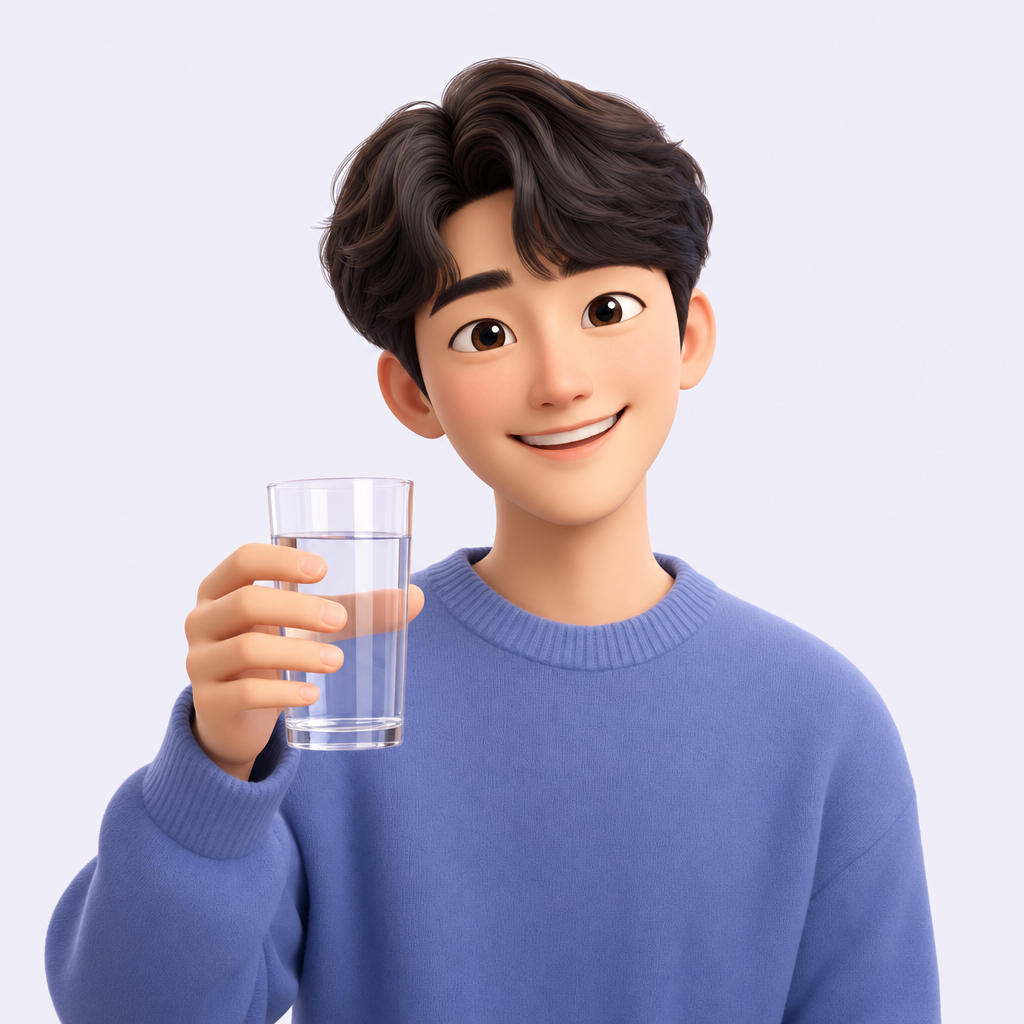
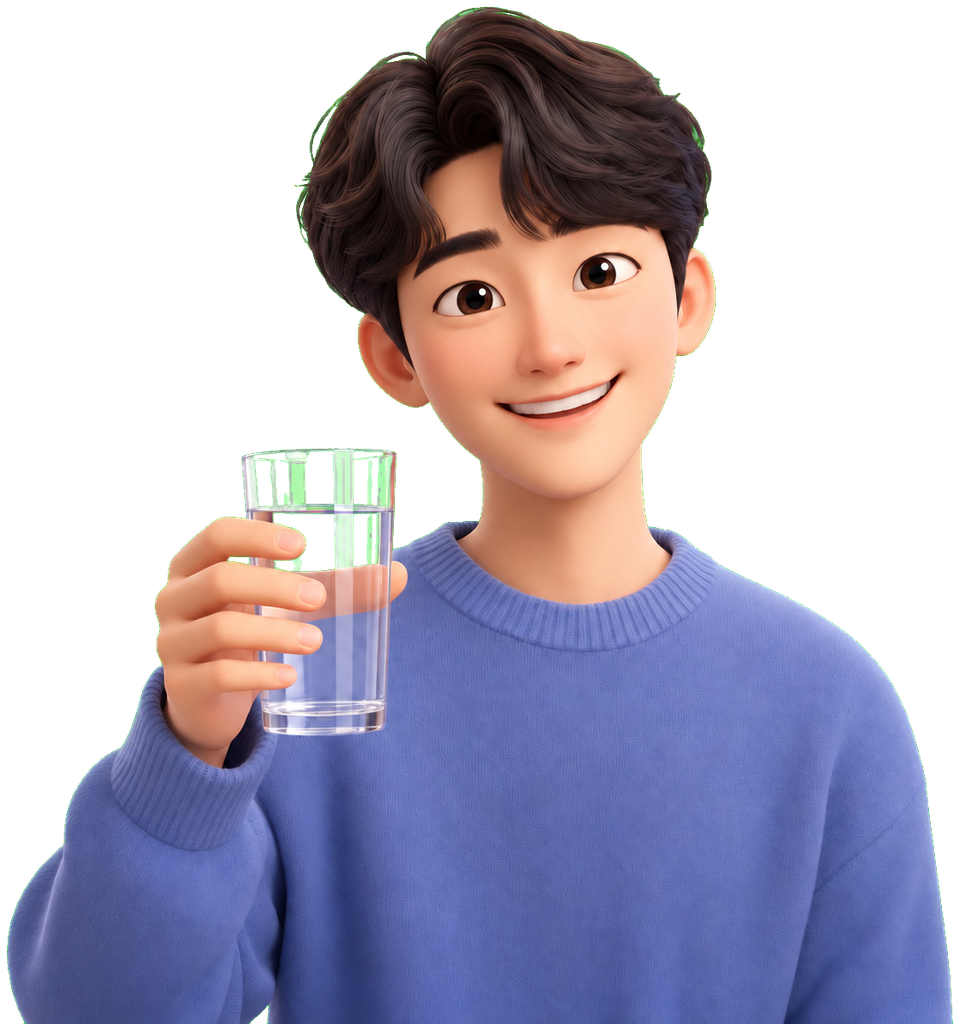
캐릭터 10장을 배경 투명 RGBA 로 교체 — Codex 초록 배경 재생성 + 크로마키
- assets/images/character/*.png: Codex 이미지 도구로 원본을 참고해 순수 초록 배경에 다시 그린 뒤
  scripts/key-green-characters.py 로 키잉(순수 초록은 어디든 배경, 가장자리 소프트 알파와 초록
  기여분 되돌리기, 유리컵 비침 despill). 거품·하트·반짝이 장식 유지, 소주병 초록 보호.
- 앱 배경색이 구워진 RGB 라 흰 카드(공유 카드·설정 프로필 카드)에서 상자가 보이던 문제 해소.
  Live Activity 320px 에셋도 같은 소스에서 재생성.
- ML 배경 제거(Replicate) 경로는 떠 있는 장식을 지워서 폐기 — 스크립트 2개 삭제, CLAUDE.md 갱신.

Changed region(s): [[0.0, 0.0, 1.0, 1.0], [0.625, 0.9688, 0.6562, 1.0], [0.4375, 0.5938, 0.4688, 0.625]]

diff --git a/scripts/key-green-characters.py b/scripts/key-green-characters.py
@@ -1,0 +1,120 @@
+#!/usr/bin/env python3
+"""순수 초록(#00FF00) 배경으로 그린 캐릭터를 크로마키로 투명(RGBA) 처리한다 (Pillow 만 사용).
+
+ML 배경 제거(851-labs/background-remover)는 캐릭터 주변에 떠 있는 물방울·하트를
+배경으로 보고 지운다. Codex 이미지 도구가 배경을 완전 단색 초록으로 그려 주므로
+초록만 골라 빼면 장식이 그대로 남는다.
+
+    python3 scripts/key-green-characters.py in.png out.png [--height 1024] [in2 out2 ...]
+
+알고리즘 (초록 과잉 e = G − max(R, B), 0~255):
+  1. e ≥ HARD 인 픽셀은 어디에 있든 배경(갇힌 영역·거품 안쪽 포함). 소주병 초록은 e≈60 이라 안전.
+  2. 배경을 ALPHA_BAND 만큼 불린 띠 안에서만 알파를 부드럽게: a = 1 − clamp((e − LO)/(HI − LO)).
+     SPILL_BAND 안의 불투명 픽셀은 초록 물듦(G 과잉)을 깎는다. 안쪽이라도 밝고 연한 초록
+     (유리컵에 배경이 비친 것)은 중화한다 — R·B ≥ PALE_SPILL_MIN 조건으로 소주병은 보호.
+  3. 반투명 픽셀은 초록 기여분을 되돌린다: R' = R/a, B' = B/a, G' = (G − (1−a)·255)/a.
+     이러면 흰 스웨터 가장자리도 회색이 아니라 흰색으로 남는다.
+  4. 여백 크롭(+PADDING) → 지정 높이로 LANCZOS 축소 → PNG.
+"""
+import argparse
+from pathlib import Path
+
+from PIL import Image, ImageFilter
+
+HARD = 150        # 이 이상이면 배경(유리컵에 비친 진한 초록도 포함 — 소주병 e≈60~100 은 안전)
+LO, HI = 80, 240  # 소프트 알파 구간 (소주병 초록 e≈60 은 LO 아래라 불투명 유지)
+ALPHA_BAND = 10   # 배경 주변 이 폭(px) 안에서만 알파를 부드럽게 (렌더의 안티에일리어싱 폭보다 넓게)
+SPILL_BAND = 4    # 이 폭 안의 불투명 픽셀은 초록 물듦을 깎는다 (넓히면 소주병 테두리가 탁해진다)
+SPILL_TOL = 16    # 허용할 초록 과잉
+PALE_SPILL_MIN = 60   # 안쪽 초록 물듦 중화 조건: min(R,B) ≥ 이 값 AND G ≥ PALE_SPILL_G (소주병 G≈120~180 은 제외)
+PALE_SPILL_G = 190
+PADDING = 8
+
+
+def key(im: Image.Image) -> Image.Image:
+    im = im.convert("RGB")
+    w, h = im.size
+    px = im.load()
+
+    # 1. 순수 초록(e ≥ HARD) 은 어디에 있든 배경 — 팔과 머리 사이 같은 갇힌 영역, 거품 안쪽도 포함.
+    #    (테두리 연결 조건을 두면 갇힌 초록이 남는다. 소주병 초록은 e≈60 이라 걸리지 않는다.)
+    hard = Image.new("L", (w, h), 0)
+    hp = hard.load()
+    excess = [[0] * w for _ in range(h)]
+    for y in range(h):
+        row = excess[y]
+        for x in range(w):
+            r, g, b = px[x, y]
+            e = g - max(r, b)
+            row[x] = e
+            if e >= HARD:
+                hp[x, y] = 255
+
+    # 2. 배경 주변 띠: 넓은 띠(ALPHA_BAND)는 알파를 부드럽게, 좁은 띠(SPILL_BAND)는 초록 번짐을 깎는다
+    alpha_band = hard.filter(ImageFilter.MaxFilter(ALPHA_BAND * 2 + 1)).load()
+    spill_band = hard.filter(ImageFilter.MaxFilter(SPILL_BAND * 2 + 1)).load()
+
+    out = Image.new("RGBA", (w, h))
+    op = out.load()
+    for y in range(h):
+        for x in range(w):
+            r, g, b = px[x, y]
+            if hp[x, y]:
+                op[x, y] = (0, 0, 0, 0)
+                continue
+            if alpha_band[x, y] == 0:
+                e = excess[y][x]
+                if e > SPILL_TOL and min(r, b) >= PALE_SPILL_MIN and g >= PALE_SPILL_G:
+                    # 유리컵처럼 투명한 사물에 초록 배경이 비쳐 연두색으로 물든 부분 —
+                    # 밝고 연한(R·B 가 높은) 초록만 중화한다. 소주병은 R·B 가 낮아 그대로.
+                    g = max(r, b) + SPILL_TOL
+                op[x, y] = (r, g, b, 255)
+                continue
+            e = excess[y][x]
+            a = 1.0 - min(max((e - LO) / (HI - LO), 0.0), 1.0)
+            if a <= 0.0:
+                op[x, y] = (0, 0, 0, 0)
+                continue
+            if a >= 1.0:
+                if spill_band[x, y] and e > SPILL_TOL:
+                    # 불투명한 가장자리에 남은 초록 물듦 — G 를 다른 채널 수준으로 내린다
+                    g = max(r, b) + SPILL_TOL
+                op[x, y] = (r, g, b, 255)
+                continue
+            # 3. 반투명 픽셀: 초록 기여분을 되돌린다
+            r2 = min(255, round(r / a))
+            b2 = min(255, round(b / a))
+            g2 = min(255, max(0, round((g - (1 - a) * 255) / a)))
+            op[x, y] = (r2, g2, b2, round(a * 255))
+    return out
+
+
+def finalize(src: Path, dst: Path, height: int) -> None:
+    im = key(Image.open(src))
+    bbox = im.getbbox()
+    if bbox is None:
+        raise SystemExit(f"{src}: 전부 투명")
+    l, t, r, b = bbox
+    im = im.crop((max(0, l - PADDING), max(0, t - PADDING), min(im.width, r + PADDING), min(im.height, b + PADDING)))
+    if im.height != height:
+        im = im.resize((round(im.width * height / im.height), height), Image.LANCZOS)
+    dst.parent.mkdir(parents=True, exist_ok=True)
+    im.save(dst, optimize=True)
+    hist = im.getchannel("A").histogram()
+    n = im.width * im.height
+    print(f"{src.name} → {dst} {im.size}  transparent {hist[0] * 100 / n:.1f}%  partial {sum(hist[1:255]) * 100 / n:.1f}%  opaque {hist[255] * 100 / n:.1f}%")
+
+
+def main() -> None:
+    p = argparse.ArgumentParser(description=__doc__, formatter_class=argparse.RawDescriptionHelpFormatter)
+    p.add_argument("pairs", nargs="+", help="in.png out.png [in2 out2 ...]")
+    p.add_argument("--height", type=int, default=1024)
+    a = p.parse_args()
+    if len(a.pairs) % 2:
+        raise SystemExit("in/out 쌍으로 넘겨야 한다")
+    for i in range(0, len(a.pairs), 2):
+        finalize(Path(a.pairs[i]), Path(a.pairs[i + 1]), a.height)
+
+
+if __name__ == "__main__":
+    main()

diff --git a/CLAUDE.md b/CLAUDE.md
@@ -117,12 +117,12 @@ src/
 - **`npx expo prebuild` 는 `android/local.properties`·`gradle.properties` 의 JDK 고정과 아래 OTA 채널 헤더를 모두 지운다.** prebuild 후에는 `sdk.dir`, `org.gradle.java.home`(JDK 17), `expo-channel-name` 을 반드시 다시 넣을 것.
 - 알림 카운트다운은 `patches/expo-notifications+*.patch` 로 `setChronometerCountDown` 을 붙여 구현했다. JS 에서 `data.chronometerAtMs` 로 목표 시각만 넘기면 시스템이 직접 1초씩 깎으므로 앱이 죽어도 정확하다. 남은 시간을 문자열로 구워 보내지 말 것.
 - **iOS 카운트다운은 Live Activity**(`expo-live-activity` 0.4.2 고정, `src/services/liveActivity.ts`). 플러그인이 prebuild 때 `ios/LiveActivity` 위젯 타깃(번들 ID `.LiveActivity`, iOS 16.2+)을 생성하고 Info.plist 에 `NSSupportsLiveActivities` 를 넣는다. Android 와 같은 원칙으로 목표 시각(epoch ms)만 넘기고 문구는 같은 i18n 리소스를 쓴다. 활동 ID 는 AsyncStorage `live_activity_id` 에 보관해 재시작 후 이전 활동을 먼저 끝낸다(안 그러면 잠금화면에 두 개). **iOS 는 시작 후 8시간에 강제 종료**하므로 앱을 열 때마다 갱신 대신 재시작한다. 완료 알림은 별도 로컬 알림이라 무관. jest 는 루트 `__mocks__/expo-live-activity.ts` 로 자동 대체된다.
-  - **잠금화면·다이내믹 아일랜드 디자인은 `patches/expo-live-activity+0.4.2.patch`**(`ios-files/LiveActivityView.swift`·`LiveActivityWidget.swift`, Codex 가 디자인). 캐릭터·아이콘은 `assets/liveActivity/*.png` — 플러그인이 prebuild 때 위젯 에셋 카탈로그(imageset)로 복사하므로 JS 는 파일명(확장자 제외)만 넘긴다. **캐릭터는 배경을 투명하게 뺀 RGBA** 여야 한다(카드·아일랜드 위에 스티커처럼 뜸). 재생성 파이프라인: ① Codex 이미지 도구(`codex exec -i 참고이미지 -- "프롬프트"`; `-i` 뒤에는 `--` 로 프롬프트를 구분해야 한다)로 **순수 초록(#00FF00) 단색 배경**에 다시 그린다 — Codex 의 이미지 도구는 투명 출력을 못 한다. ② `python3 scripts/remove-bg-replicate.py in.png out.png` 로 배경 제거(Replicate `851-labs/background-remover`, 토큰 `~/.replicate_api_token`; data URI 256KB 제한이라 Files API 업로드, urllib 기본 UA 는 Cloudflare 403 이라 UA 지정, 429 는 재시도). ③ `python3 scripts/finalize-live-activity-assets.py out.png assets/liveActivity/la_<이름>.png` 로 가장자리 초록 번짐 제거·크롭·320px. 색 거리 매팅(Pillow 만으로 배경색 빼기)은 머리카락 가장자리가 지저분해 폐기했다. prebuild 없이 반영하려면 `ios/LiveActivity/Assets.xcassets/<이름>.imageset/` 에 PNG 를 덮어쓰고 증분 빌드. `LiveActivityAttributes` 구조체는 앱 모듈(`ios/LiveActivityAttributes.swift`)과 바이트 단위로 같아야 한다 — 위젯 파일을 고칠 때 건드리지 말 것. 아일랜드는 항상 검은 배경이라 텍스트는 흰색 고정(titleColor 는 잠금화면용 네이비).
+  - **잠금화면·다이내믹 아일랜드 디자인은 `patches/expo-live-activity+0.4.2.patch`**(`ios-files/LiveActivityView.swift`·`LiveActivityWidget.swift`, Codex 가 디자인). 캐릭터·아이콘은 `assets/liveActivity/*.png` — 플러그인이 prebuild 때 위젯 에셋 카탈로그(imageset)로 복사하므로 JS 는 파일명(확장자 제외)만 넘긴다. **캐릭터는 배경을 투명하게 뺀 RGBA** 여야 한다(카드·아일랜드 위에 스티커처럼 뜸). 재생성 파이프라인은 아래 '캐릭터 에셋' 항목과 같다(앱용 1024px 에서 `--height 320` 으로 한 번 더 뽑는다). prebuild 없이 반영하려면 `ios/LiveActivity/Assets.xcassets/<이름>.imageset/` 에 PNG 를 덮어쓰고 증분 빌드. `LiveActivityAttributes` 구조체는 앱 모듈(`ios/LiveActivityAttributes.swift`)과 바이트 단위로 같아야 한다 — 위젯 파일을 고칠 때 건드리지 말 것. 아일랜드는 항상 검은 배경이라 텍스트는 흰색 고정(titleColor 는 잠금화면용 네이비).
   - 시뮬레이터에서 타이머 초가 `5:59:--` 로 보이면 디스플레이가 어두워진(dimmed) 상태다 — 디자인 버그가 아니다. 재부팅하면 밝은 상태로 돌아온다.
   - **Metro 를 `CI=1` 로 띄우면 파일 변경을 감시하지 않는다**(번들이 안 바뀌어 "코드가 반영 안 됨" 으로 보인다). 시뮬레이터 테스트 땐 `npx expo start --dev-client` 그대로 쓸 것.
 - **Chronometer 는 0 에서 멈추지 않는다** — 목표 시각을 지나면 `-30:28` 처럼 음수로 계속 센다. 앱 프로세스가 죽어 있으면 JS 로 내릴 방법이 없으므로 취소도 시스템에 맡겨야 한다: 같은 패치에서 `setTimeoutAfter(남은 시간)` 을 건다. `setOngoing(true)` 와 함께 써도 취소된다.
 - **patch-package 재생성 시 `node_modules/<모듈>/android/build` 를 먼저 지울 것.** 안 그러면 Gradle 산출물 수천 개가 패치에 섞여 들어간다(실제로 2.5MB 까지 불었다). 그리고 재생성 후에는 `grep '^diff --git' 패치` 로 **의도한 파일이 전부 들어갔는지** 확인할 것 — 새로 추가한 `res/values*/*.xml` 이 빠진 채 커밋돼 clean install 에서만 빌드가 깨진 적이 있다.
-- 캐릭터 에셋(assets/images/character/, 10장)은 배경이 앱 배경색(#EEEDF8)으로 보정된 AI 생성 이미지. 재생성 파이프라인·레퍼런스는 Flutter 폴더(`design_refs/`, Replicate openai/gpt-image-2, 토큰 `~/.replicate_api_token`) 참조. 배경 보정은 flood fill 금지, 색 거리 기반 스무스 시프트만.
+- **캐릭터 에셋(assets/images/character/, 10장)은 배경 투명 RGBA 1024px.** 재생성 파이프라인: ① Codex 이미지 도구로 원본을 참고 이미지로 붙여 **순수 초록(#00FF00) 단색 배경**에 다시 그린다 — `codex exec -i ref.png -- "프롬프트"` 형식(`-i` 는 여러 파일을 먹으므로 프롬프트 앞에 `--` 필수), 투명 출력은 지원하지 않는다. 떠 있는 거품·하트·반짝이를 그대로 그리라고 명시할 것. ② `python3 scripts/key-green-characters.py in.png out.png [--height 1024]` 로 크로마키(Pillow 만 사용; 순수 초록은 어디든 배경, 가장자리 소프트 알파 + 초록 기여분 되돌리기 + 번짐 깎기). ML 배경 제거(Replicate background-remover)는 떠 있는 거품·하트를 지워 버려서 쓰지 않는다. 색 거리로 앱 배경색을 빼는 방식은 머리카락이 지저분해 폐기. Live Activity 용(`assets/liveActivity/`)은 같은 스크립트를 `--height 320` 으로.
 
 ## 디자인 토큰
 
